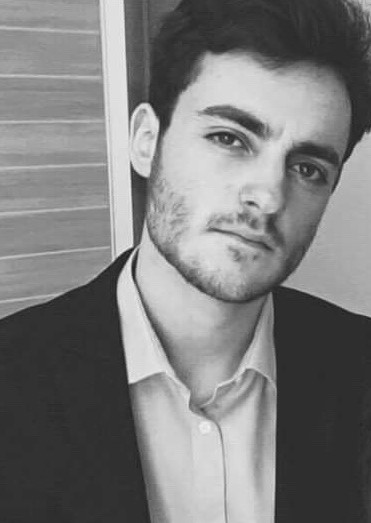
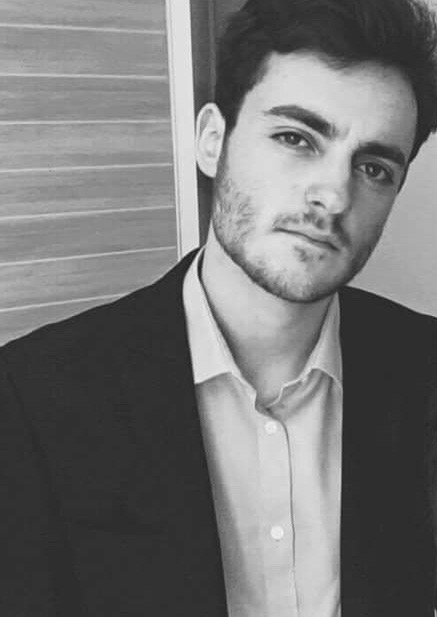
photo edition ended

diff --git a/NewWS/css/style.css b/NewWS/css/style.css
@@ -411,7 +411,7 @@ body.offcanvas {
 
 .author-img {
   background-size: cover;
-  background-position: center center;
+  background-position: right right;
   background-repeat: no-repeat;
   position: relative; }
 
